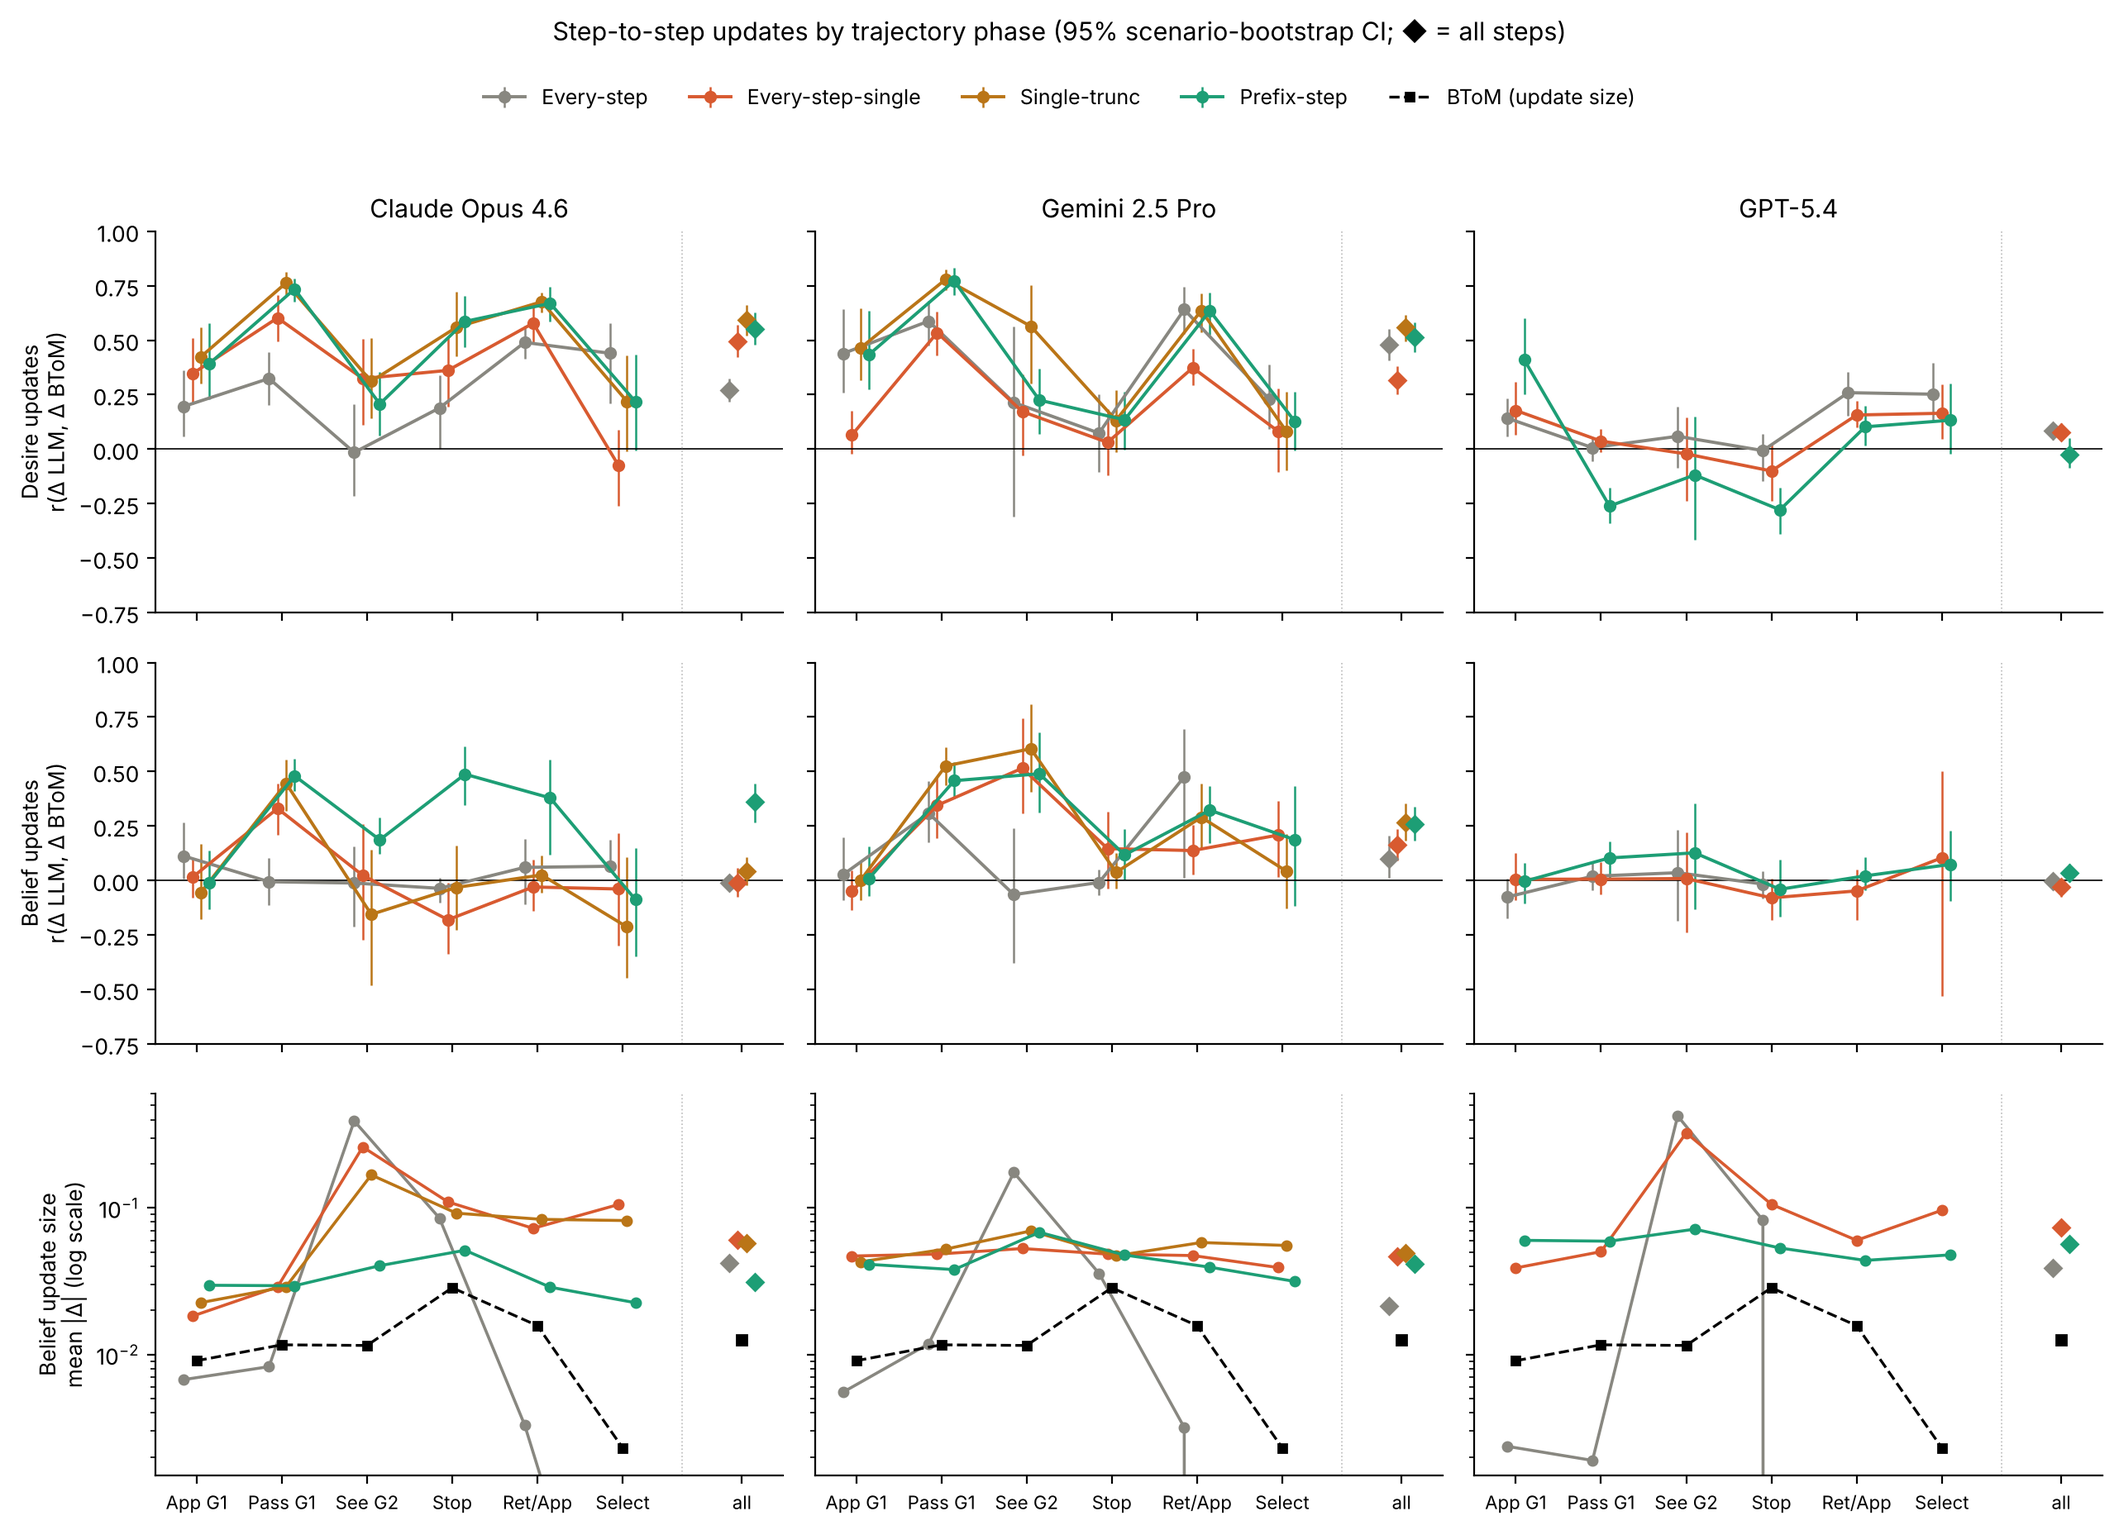
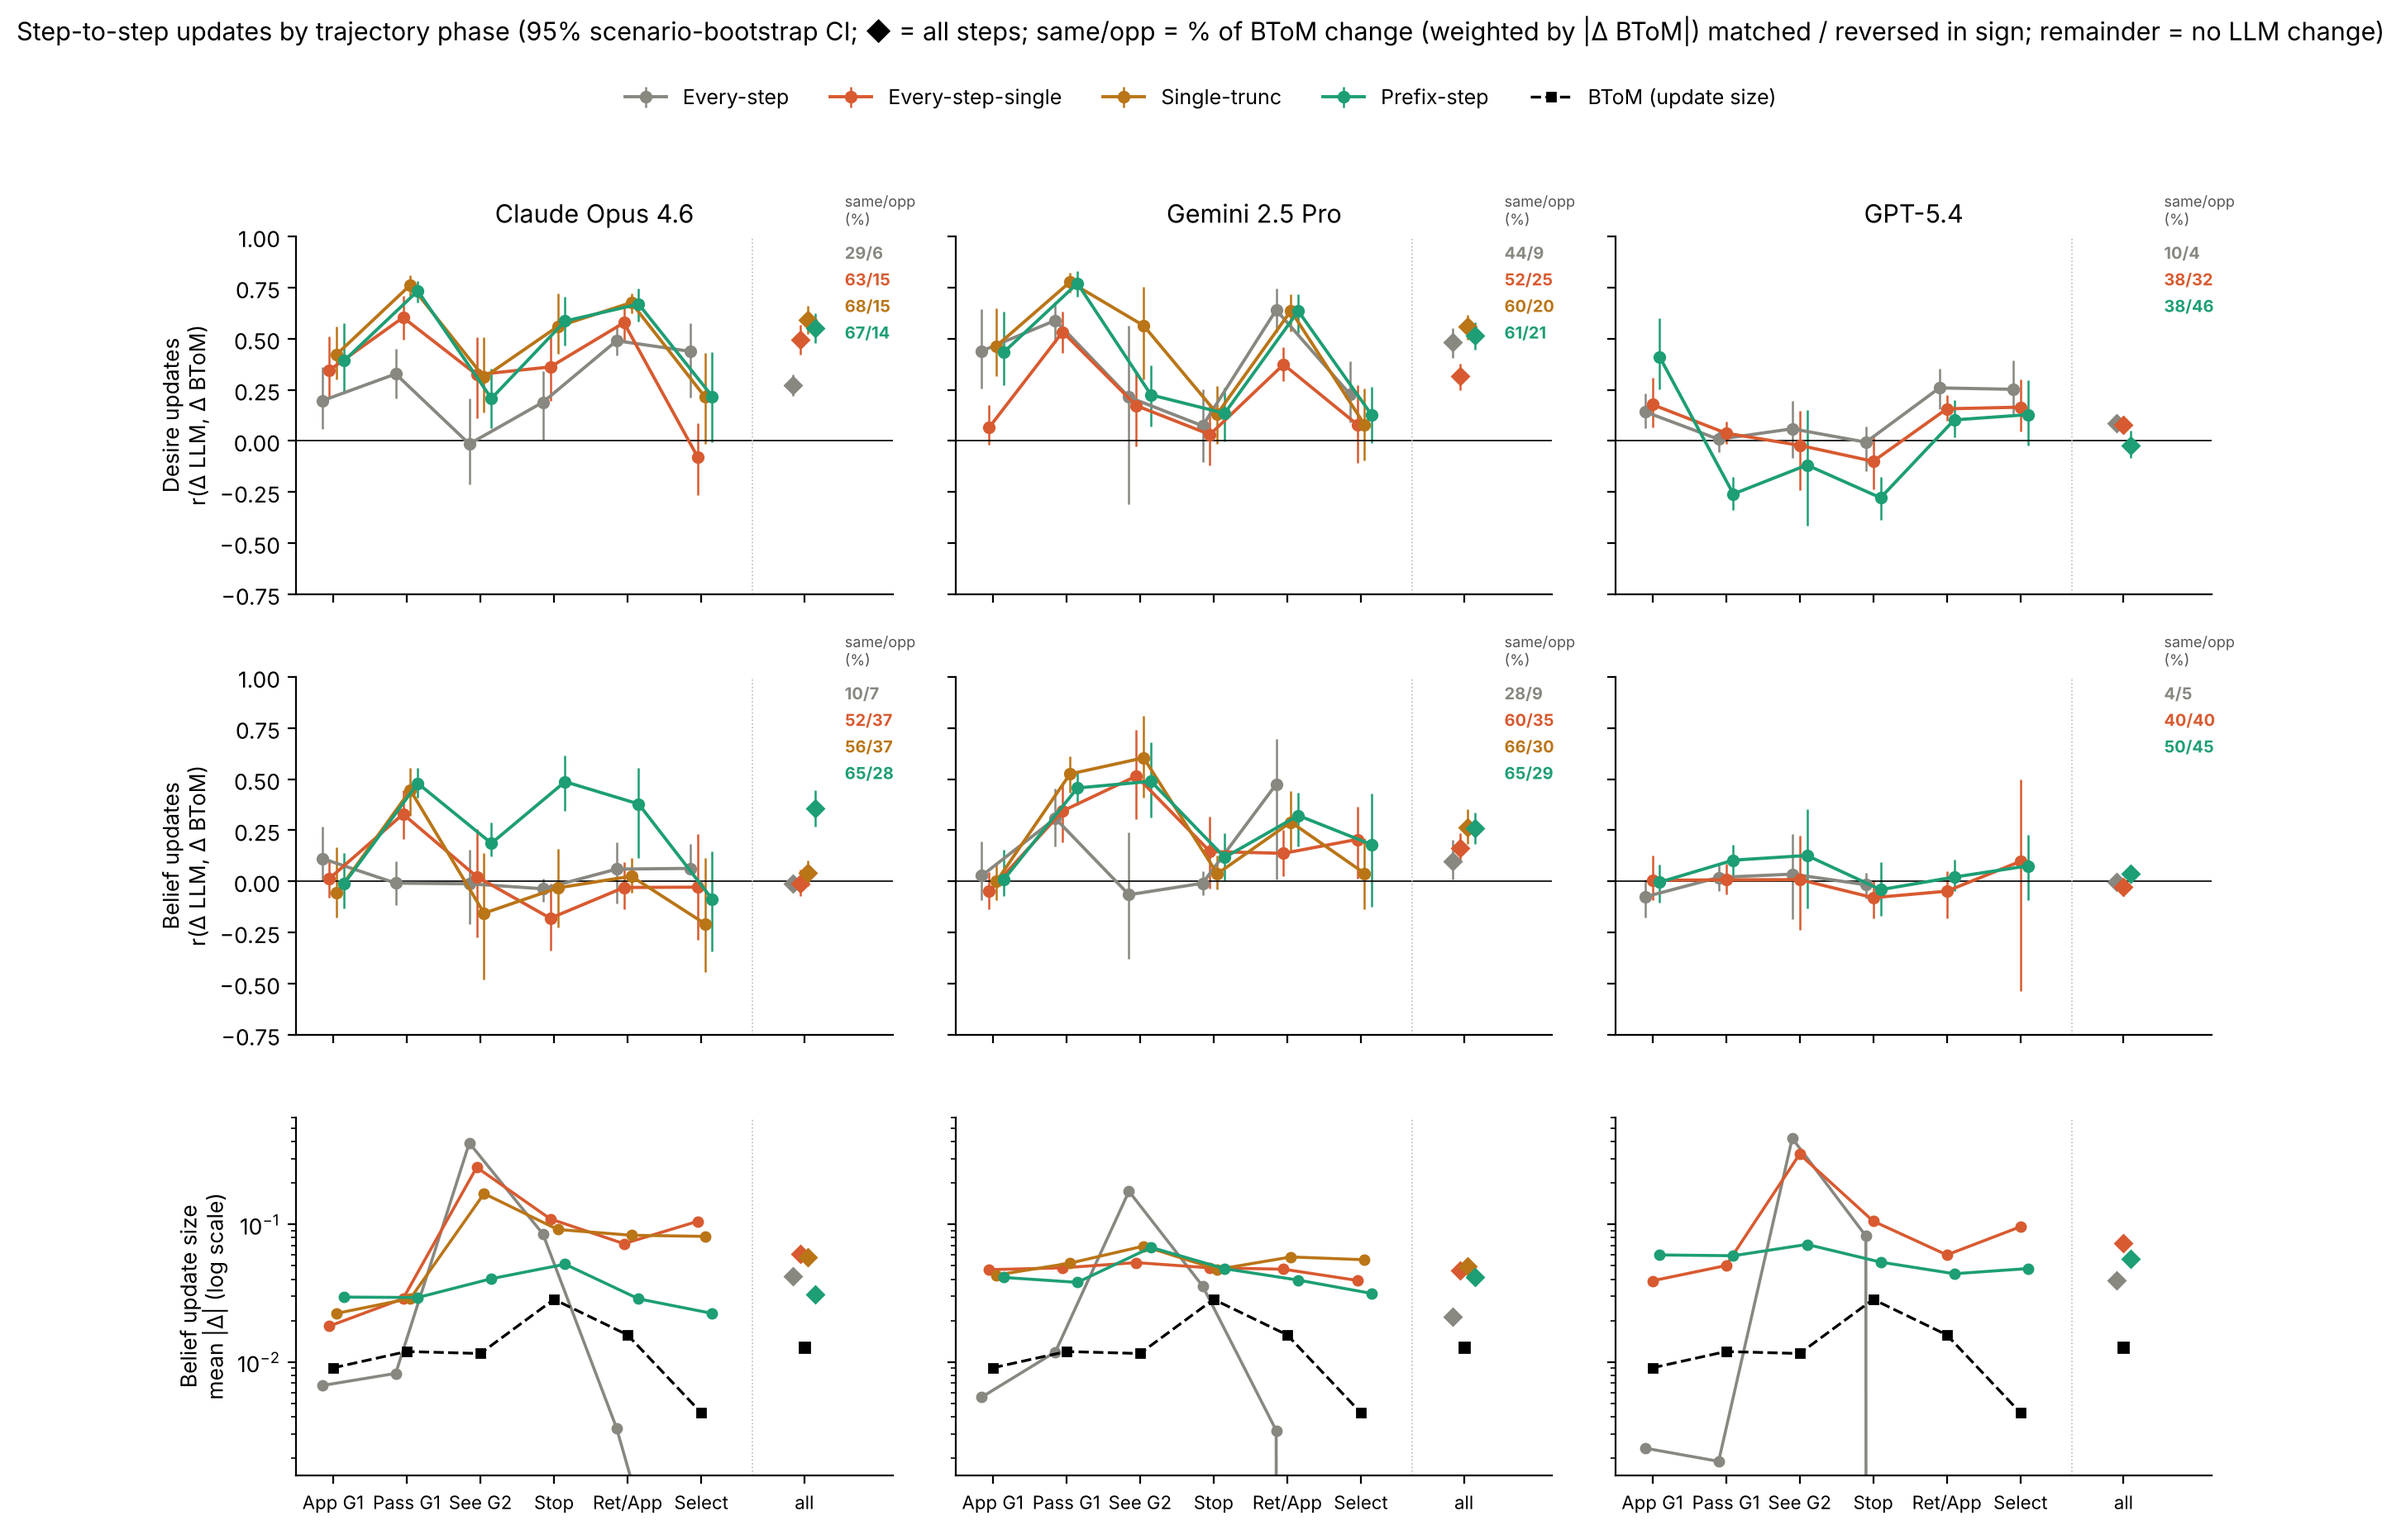
U1: add magnitude-weighted sign agreement (same/opposite) next to all-steps marker
Claude-Session: https://claude.ai/code/session_01QAKBEtsvJW6UqNEF9rWiR3

diff --git a/analysis/update_agreement.py b/analysis/update_agreement.py
@@ -44,6 +44,7 @@ REF_LABEL = {"btom": "BToM", "truebelief": "TrueBelief", "nocost": "NoCost", "mo
 DIMS = {"desire": slice(0, 3), "belief": slice(3, 6)}
 PHASES = [1, 2, 3, 4, 5, 6]
 PH_LABEL = {1: "Approach\nG1", 2: "Pass\nG1", 3: "See\nG2", 4: "Stop", 5: "Return G1 /\nApproach G2", 6: "Selected"}
+SIGN_EPS = 1e-3   # 이보다 작은 레퍼런스 변화는 '변화 없음'으로 보고 방향 일치 계산에서 제외
 SHORT = {1: "App G1", 2: "Pass G1", 3: "See G2", 4: "Stop", 5: "Ret/App", 6: "Select"}
 COND_COL = {"Every-step": "#888780", "Every-step-single": "#D85A30", "Single-trunc": "#BA7517", "Prefix-step": "#1D9E75"}
 plt.rcParams.update({"font.size": 9.5, "axes.spines.top": False, "axes.spines.right": False})
@@ -132,9 +133,17 @@ def main():
                     bs = [r_from(sum(st[s] for s in b if s in st)) for b in boot]
                     lo, hi = np.nanpercentile(bs, [2.5, 97.5]) if np.isfinite(est) else (np.nan, np.nan)
                     n_steps = int(sum(v[0] for v in st.values()) // 3)
+                    # 방향 일치: 레퍼런스가 조금이라도 바뀐 (옵션 x 스텝)에서 LLM 변화의 부호가 같은 비율 / 반대인 비율
+                    x_, y_ = dl[:, sl][mask], dref[refname][:, sl][mask]
+                    ok = np.isfinite(x_) & np.isfinite(y_) & (np.abs(y_) > SIGN_EPS)
+                    # |Δ레퍼런스| 가중: 큰 갱신일수록 크게 반영 (임계값 없이 미세한 변화의 부호 잡음을 줄임)
+                    w = np.abs(y_[ok])
+                    same = float(np.sum(w * (np.sign(x_[ok]) == np.sign(y_[ok]))) / w.sum()) if ok.any() else np.nan
+                    opp = float(np.sum(w * (np.sign(x_[ok]) == -np.sign(y_[ok]))) / w.sum()) if ok.any() else np.nan
                     res.append(dict(model=model, condition=cond, dimension=dim, reference=REF_LABEL[refname],
                                     phase=PHASE_NAMES.get(ph, "all") if ph != "all" else "all", phase_idx=ph,
-                                    r=est, ci_low=lo, ci_high=hi, n_steps=n_steps, n_scenarios=len(st)))
+                                    r=est, ci_low=lo, ci_high=hi, n_steps=n_steps, n_scenarios=len(st),
+                                    sign_same=same, sign_opposite=opp, n_sign=int(ok.sum())))
         print(f"done: {model} / {cond}")
     for dim, sl in DIMS.items():
         for refname in ["btom"]:
@@ -173,9 +182,14 @@ def main():
                 al = g[g.x > 6]
                 ax.errorbar(al.x + off, al.r, yerr=[al.r - al.ci_low, al.ci_high - al.r], color=COND_COL[c],
                             marker="D", ms=5, elinewidth=0.9, ls="none")
+                if len(al) and np.isfinite(al.sign_same.iloc[0]):
+                    ax.text(7.95, 0.92 - 0.13 * k, f"{al.sign_same.iloc[0]*100:.0f}/{al.sign_opposite.iloc[0]*100:.0f}", color=COND_COL[c], fontsize=7.2,
+                            ha="left", va="center", fontweight="bold")
                 handles[c] = h
             style(ax)
             ax.set_ylim(-0.75, 1.0)
+            ax.set_xlim(0.5, 8.6)
+            ax.text(7.95, 1.04, "same/opp\n(%)", fontsize=6.5, color="#555", ha="left", va="bottom")
             if j == 0:
                 ax.set_ylabel(f"{dim.capitalize()} updates\nr(Δ LLM, Δ BToM)")
             else:
@@ -208,9 +222,11 @@ def main():
             ax.set_ylabel("Belief update size\nmean |Δ| (log scale)")
         else:
             ax.set_yticklabels([])
+        ax.set_xlim(0.5, 8.6)
     fig.legend(handles.values(), handles.keys(), loc="upper center", ncol=len(handles), frameon=False,
                bbox_to_anchor=(0.5, 1.035), fontsize=9)
-    fig.suptitle("Step-to-step updates by trajectory phase (95% scenario-bootstrap CI; ◆ = all steps)",
+    fig.suptitle("Step-to-step updates by trajectory phase (95% scenario-bootstrap CI; ◆ = all steps; "
+                 "same/opp = % of BToM change (weighted by |Δ BToM|) matched / reversed in sign; remainder = no LLM change)",
                  fontsize=11, y=1.07)
     fig.tight_layout()
     fig.savefig(os.path.join(a.out_dir, "U1_update_vs_btom.png"), dpi=200, bbox_inches="tight")
